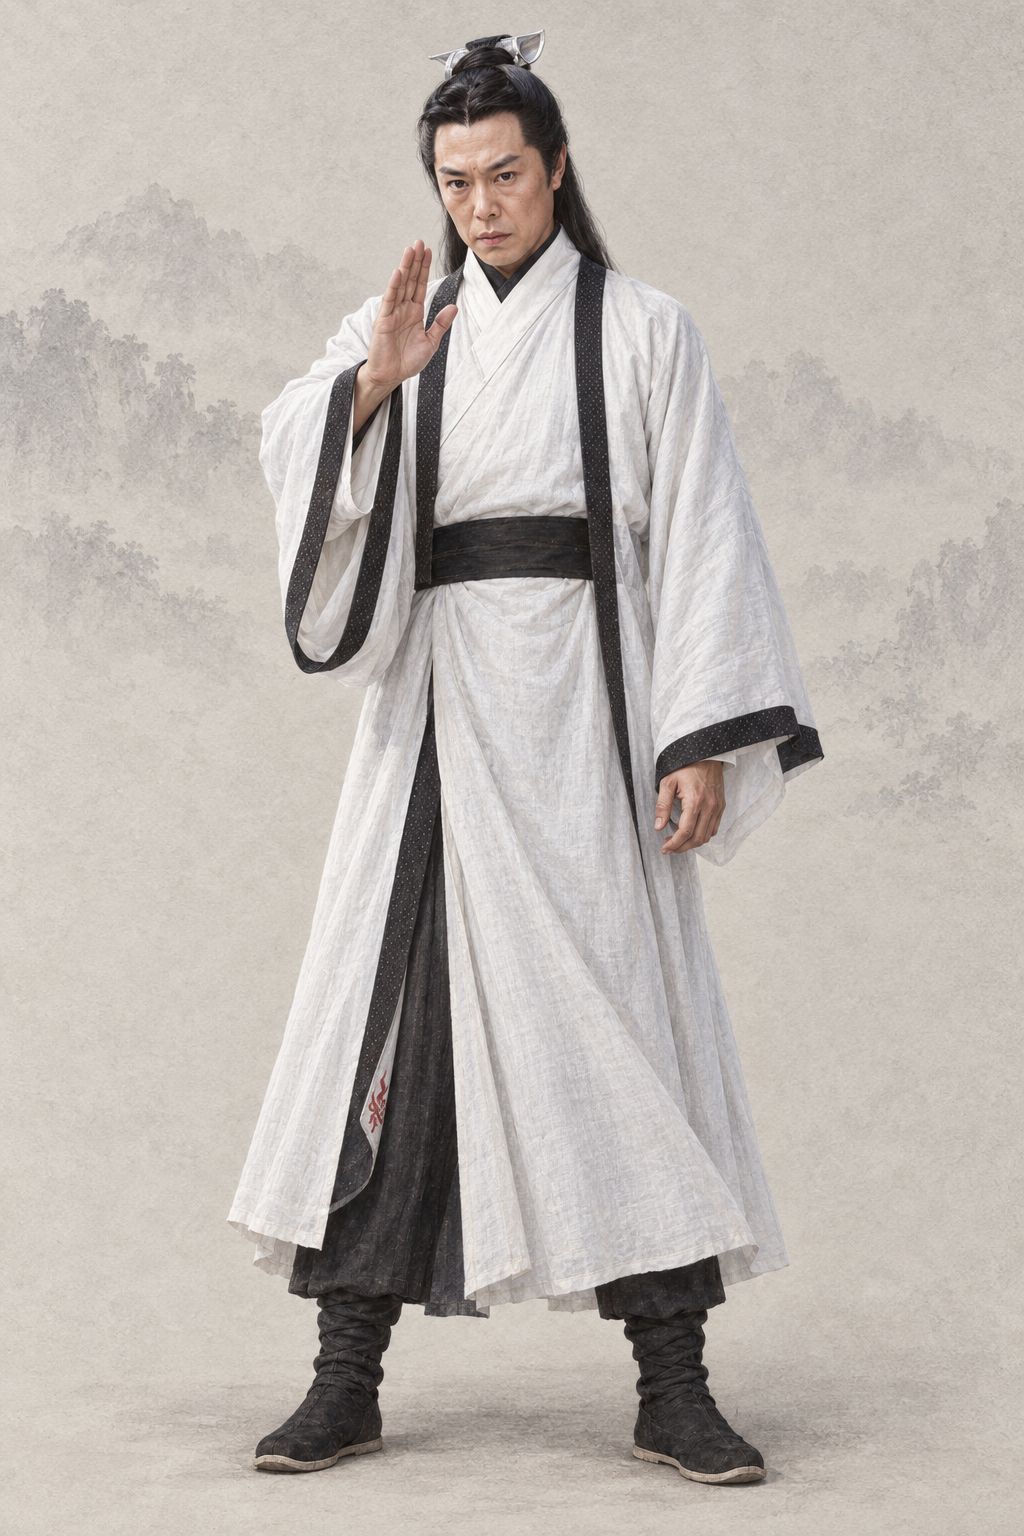
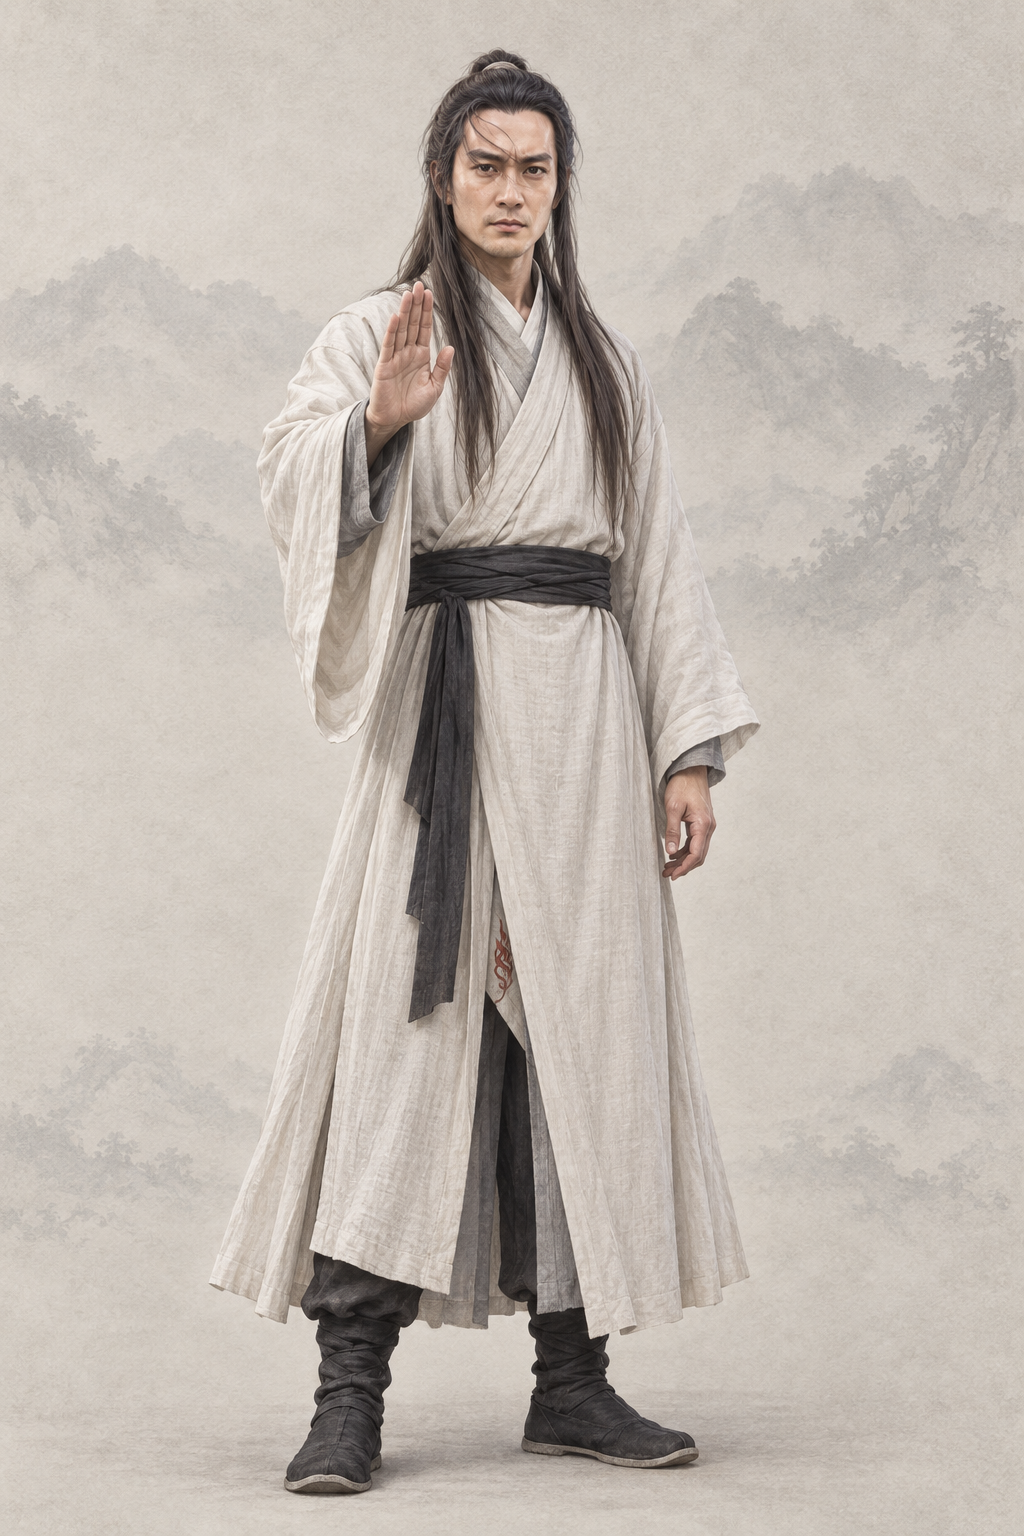
assets(character): por_npc_yangxiao__ch04_prime_base 杨逍（codex · AR-32 补记修改 B：1994 台视版《倚天屠龙记》（马景涛主演；杨逍由孙兴饰演，AR-32 补记第 5 条、AR-34） 剧照 + 基线）
作者 10-02：杨逍改用马景涛主演的 1994 台视版（该版杨逍由孙兴饰演，AR-34 确认）；上一版按 2003 版剧照，作废。上传顺序：第 1–2 张为 1994 台视版《倚天屠龙记》杨逍剧照（yangxiao_1994_sunxing_qq2021a.jpg 裁去字幕台标、yangxiao_1994_sunxing_qq2021b.jpg），最后两张为同性别基线；r1；提示词写回，旧段留作历史。

diff --git a/assets/default/prompts/characters/ch04-yitian/npc_yangxiao.md b/assets/default/prompts/characters/ch04-yitian/npc_yangxiao.md
@@ -17,24 +17,45 @@ references:
   use: 第三参考仅用户要求的背景：暖浅灰纸底、极淡水墨远山和薄雾、充足留白。已实际view并复核SHA，不取王语嫣脸、年轻年龄、发型、服装、动作或头部倾斜；墨痕与纸纹只能在背景，不进入人物与兵器。
 status: redo
 realism_revision: user_identity_pose_20261001
-classic_ref:
-  version: 2003 年苏有朋、贾静雯版《倚天屠龙记》（作者 AR-32 指定）
-  actor: 张铁林
-  stills:
-  - .agents/coord/imagegen-reference/identity-20261002/yitian/yangxiao_2003_zhangtielin_tvsou.jpg
-  - .agents/coord/imagegen-reference/identity-20261002/yitian/yangxiao_2003_zhangtielin_qq2022.jpg
+codex_prompt_rev: 2026-10-02
+redo_reason: 作者 10-02（AR-32 补记第 5 条 / AR-34）：杨逍取 1994 台视版（孙兴饰）；上一版是 2003 版造型，作废重出
 reference_upload:
-- .agents/coord/imagegen-reference/identity-20261002/yitian/yangxiao_2003_zhangtielin_tvsou.jpg
-- .agents/coord/imagegen-reference/identity-20261002/yitian/yangxiao_2003_zhangtielin_qq2022.jpg
+- .agents/coord/imagegen-reference/identity-20261002/yitian/yangxiao_1994_sunxing_qq2021a.jpg
+- .agents/coord/imagegen-reference/identity-20261002/yitian/yangxiao_1994_sunxing_qq2021b.jpg
 - assets/default/baseline/character/male/ref_npc_linghuchong__ch05_base01.png
 - assets/default/baseline/character/male/ref_npc_xiaofeng__ch01_base01.png
-redo_reason: "AR-32：主要角色参考经典影视版剧照（2003 年版）加基线重出（10-02，7 号出图员）"
-codex_prompt_rev: 2026-10-02
+classic_ref:
+  version: 1994 台视版《倚天屠龙记》（马景涛主演；杨逍由孙兴饰演，AR-32 补记第 5 条、AR-34）
+  stills:
+  - .agents/coord/imagegen-reference/identity-20261002/yitian/yangxiao_1994_sunxing_qq2021a.jpg
+  - .agents/coord/imagegen-reference/identity-20261002/yitian/yangxiao_1994_sunxing_qq2021b.jpg
 ---
 
 # 杨逍 · 人物写实修正
 
 ## Gemini 提示词
+
+> 2026-10-02 AR-32 补记修改 B（9 号出图员，codex exec · image_gen）：作者 10-02：杨逍改用马景涛主演的 1994 台视版（该版杨逍由孙兴饰演，AR-34 确认）；上一版按 2003 版剧照，作废。上传顺序：第 1–2 张为 1994 台视版《倚天屠龙记》杨逍剧照（yangxiao_1994_sunxing_qq2021a.jpg 裁去字幕台标、yangxiao_1994_sunxing_qq2021b.jpg），最后两张为同性别画风基线（缩小版 JPEG）。参考图只借造型、气质与面部特征，画面按项目画风重绘、不复制照片。上一版保留在下一节作历史。
+
+```text
+生成一张 2:3 竖幅全身人物立绘：单人、单一视角、完整全身——头顶、双手、双脚和手中器物的两端都在画面内，四周留出自然空白；人物站姿自然，身体基本朝向正面，头部端正（不歪头、不仰不俯），镜头平视。
+【参考图】第 1–2 张参考图是该角色经典影视造型的剧照：借鉴其发型、服饰、配色、标志道具、气质和面部特征，让人一眼认出是这个角色；但必须重新绘制成项目画风，不要照片质感，不要照搬剧照的构图、光影、背景和姿势，也不要做成照片修图。最后两张是本项目画风基线：画风、用色、光线、质感和暖浅灰纸底加淡水墨背景以它们为准。
+【剧照借鉴要点】取剧照里这一版杨逍的标志：乌黑长发大半披散在背后和两肩（头顶只松松束起一小束，不戴冠）、素白宽袖长袍、落拓不羁而冷峻的气质、英俊的脸型和锐利的眼神；剧照里的字幕、台标、照片光影一律不要。
+【画风】写实手绘古风人物插画，与本项目写实武侠角色立绘同一画风，像功力深厚的画师用细腻笔触画出的真实人物。手绘插画质感，不是 CG 渲染：不要过度光滑的皮肤、完美对称的五官、塑料高光、过度锐利的发丝；保留自然的笔触和细微不完美。皮肤有真实质感——细小毛孔、细纹、晒痕和自然的左右不对称，不磨皮、不油亮；头发是一缕缕自然的发丝和少量碎发；布料看得出经纬纹理、厚薄和自然垂坠的褶皱，带穿用过的轻微旧化，但完整不破烂；整体设色低饱和、沉稳；柔和的自然光从左上方照来，明暗过渡自然，不打舞台光、轮廓光或美颜柔光。不是照片，不是三维渲染，不是动漫或游戏 CG，也不是油画（没有厚涂笔触和画布纹理）。
+【背景】不透明的暖浅灰色纸底，只在远处有极淡的水墨远山和薄雾，大面积留白；人物与背景明暗分明、轮廓边缘干净完整（后续要自动抠图），水墨和纸纹只在背景里，不侵入人物和衣服；脚下只有很淡的一点接触阴影。
+【人物】杨逍，《倚天屠龙记》明教光明左使；光明顶解围后辅佐张无忌、参与教务议事的中年阶段。文武全才、冷峻孤傲、机智多谋，又有几分落拓不羁。
+【年龄与体态】四十五岁上下的中年男子（不是青年），身材修长挺拔、肩背有力；原著说他「年纪虽然稍大，仍不失为一个风度翩翩的美男子」。
+【经典造型】要一眼认出是这一版深入人心的杨左使：披散的乌黑长发、素白宽袖长袍、腰束黑带；冷峻、邪魅而深情，既像落拓侠士，又像白衣书生。
+【面容】英俊的中年男子脸：脸型偏长、颧骨和下颌线清楚；两道浓黑的剑眉；眼睛细长、目光锐利而深沉，带着冷傲；鼻梁挺直；嘴唇偏薄、嘴角似笑非笑；有中年人的面部纹理和眼角细纹，鬓边几丝灰白；唇上和下巴只有一层淡淡的青色胡茬（不留须）。
+【发式】乌黑浓密的长发：头顶松松束起一小束、用一根素黑发带系住，其余长发披散在背后和两肩，几缕垂在额边脸侧；不戴冠。
+【服饰】素白（略带米色）宽袖交领长袍（右衽，左襟压右襟），里衬浅灰内衫，腰束一条黑色宽腰带，深色长裤、黑布靴；衣料是细麻，有自然的垂坠褶皱；衣缘内侧只有一处极小的暗红火焰纹绣（明教标记，不发光）。
+【道具】空手：不拿也不挂兵器、权杖或圣火令。
+【姿态与神情】正面站立，右手抬到胸前、五指并拢作起手式，左手自然垂在身侧；神情冷峻孤傲、目光如电，嘴角带一丝桀骜。
+【不要】画面里不要任何文字、题款、印章、签名、水印、边框、分格或多视图；不要第二个人；不要幼态（童颜、娃娃脸、婴儿肥、儿童或少年身材、大头小身）；不要塑料感皮肤、磨皮美颜、网红脸（尖下巴大眼高鼻的模板脸）、过度对称、浓妆、偶像式打光、蜡像感；不要照片质感，不要像剧照照片、照片修图或拼贴，不要照搬剧照的背景、光影、构图和姿势；不要三维渲染或动漫大眼；不要歪头、斜镜头；不要多指、缺指（设定的伤残除外）、手与器物粘连或悬空；衣襟必须右衽（穿着者的左襟压在右襟上），不要左衽（设定为少数民族服制的除外），不要水平镜像；不要现代物品、发光特效、法阵或能量光。不要青年偶像脸或网红脸；不要银冠或高耸的发髻；不要浓白长须或过度老化；不要醉态；不要权杖、圣火令、刀剑、酒葫芦、折扇；不要同伴合影。
+【画风基线】随提示词上传的参考图里，最后两张是本项目的立绘画风基线：只参考它们的画风、用色、光线、质感和暖浅灰纸底加淡水墨的背景处理，整体画风必须与它们一致——精细写实的数字手绘插画，不是油画，不要厚涂笔触和画布纹理。基线图只取画风，不取长相：不要照搬基线图里人物的长相、年龄、发型、服饰和姿势。
+```
+
+## AR-32 补记修改前的 Gemini 提示词（7 号出图员版；2026-10-02 上午，历史，不再用于出图）
 
 > 2026-10-02 AR-32 改写（7 号出图员，codex exec · image_gen 出图）：主要角色参考经典影视版剧照重出——2003 年苏有朋、贾静雯版《倚天屠龙记》（作者 AR-32 指定）。按顺序上传剧照 2 张（yangxiao_2003_zhangtielin_tvsou.jpg、yangxiao_2003_zhangtielin_qq2022.jpg，在主检出 .agents/coord/imagegen-reference/identity-20261002/，不入库）取发型、服饰、配色、气质与面部特征，再上传两张同性别缩小版基线（放在最后）取画风；要求重新绘制成项目画风，不复制照片。提示词里不写演员名。上一版保留在后文作历史。
 
